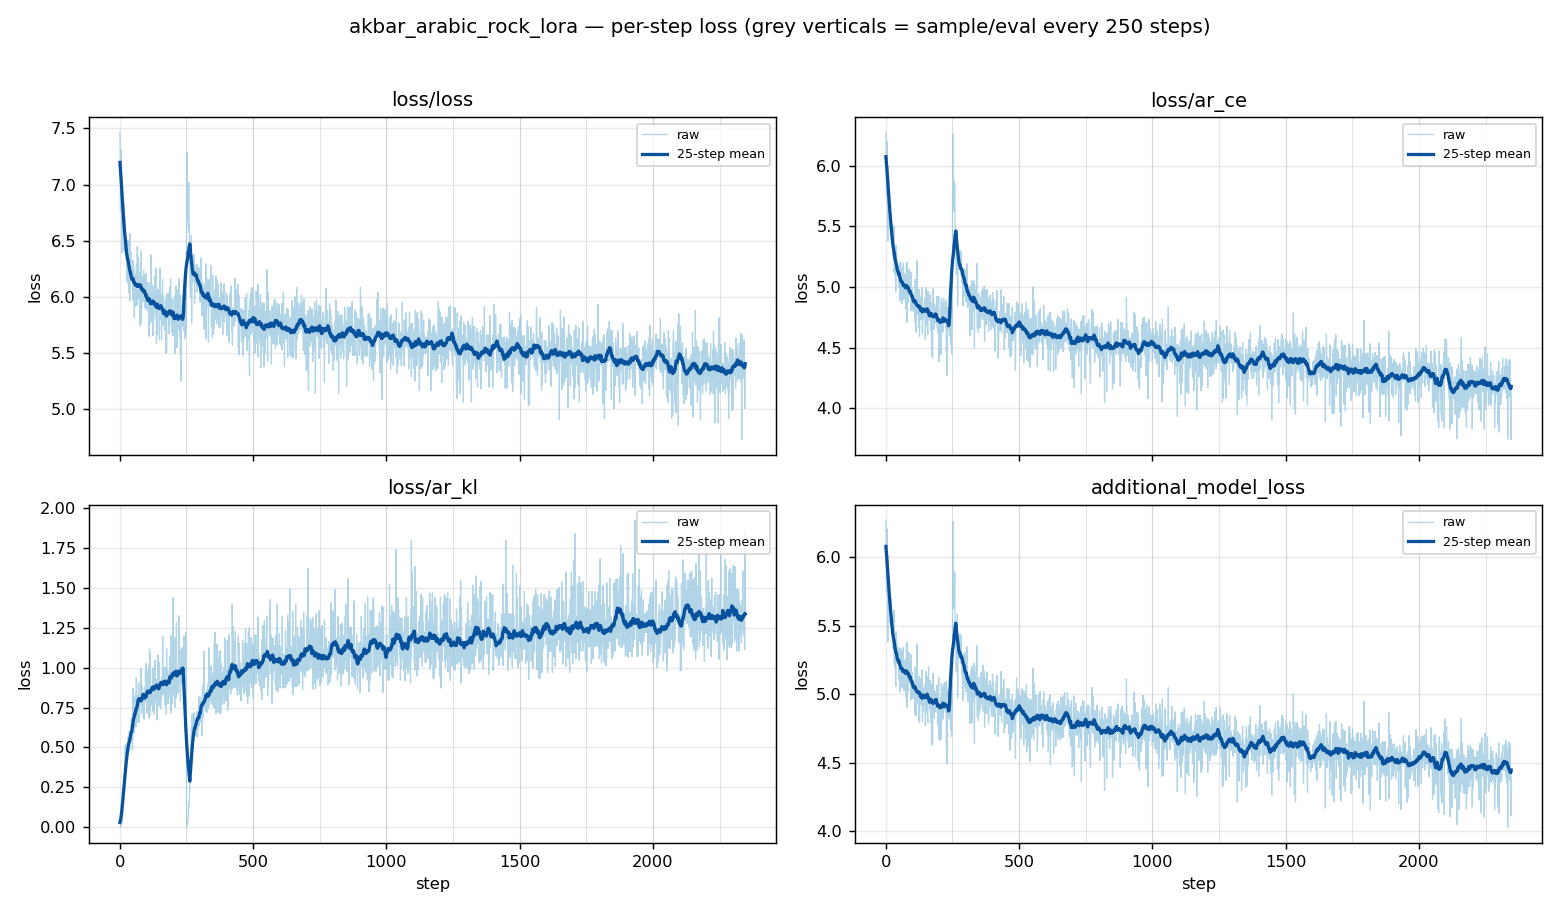
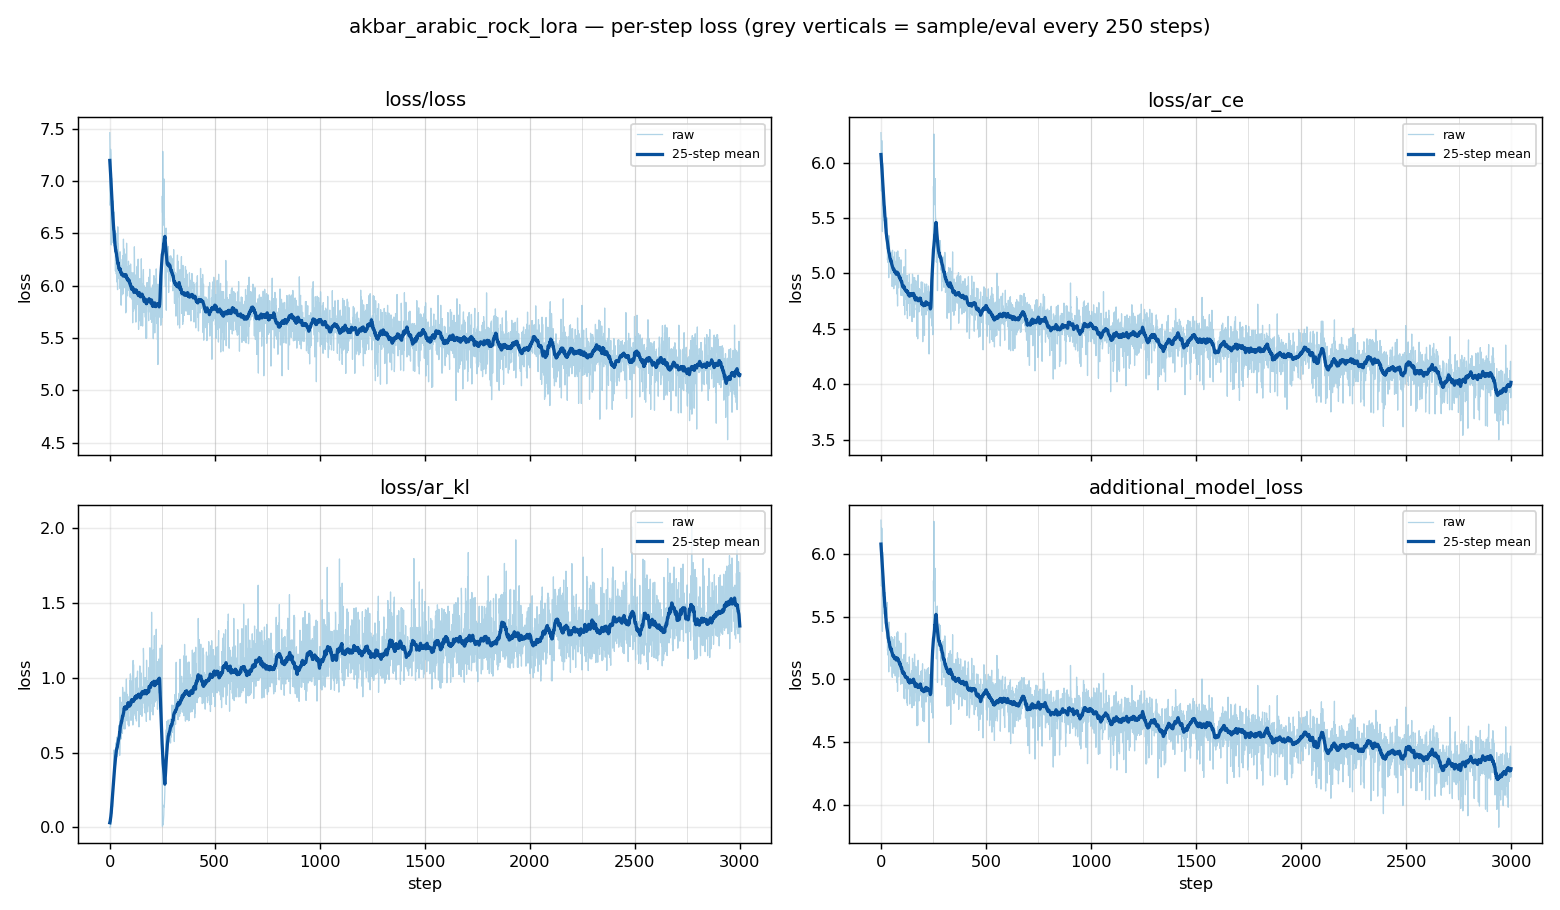
Run complete: A100 3000/3000 + final training analysis and progress

diff --git a/TRAINING_ANALYSIS/ANALYSIS.md b/TRAINING_ANALYSIS/ANALYSIS.md
@@ -1,7 +1,10 @@
 # Training analysis — `akbar_arabic_rock_lora`
 
-Snapshot taken **2026-09-19 14:09 UTC** (17:09 Bahrain) at **step ~2346 / 3000 (~78%)**.
-Charts are regenerated from the live `loss_log.db` and `gpu_usage.csv` with:
+**COMPLETE** — snapshot taken **2026-09-19 14:55 UTC** (17:55 Bahrain) at
+**step 3000 / 3000 (100%)**. The run finished cleanly (no traceback; final
+checkpoint + optimizer written; 52 samples generated).
+
+Charts are regenerated from the final `loss_log.db` and `gpu_usage.csv` with:
 
 ```bash
 python TRAINING_ANALYSIS/generate_plots.py
@@ -12,10 +15,10 @@ python TRAINING_ANALYSIS/generate_plots.py
 > the LoRA learned the maqam.
 
 > **Cross-VM note.** This run began on an L4 (steps 1–250, whole-song) and was
-> resumed on an A100-SXM4-80GB at step 250 (now to ~2346). The loss history is
-> continuous across the switch; the throughput/GPU panels are A100-only
-> (`gpu_usage.csv` started fresh on this VM). Steps 251–295 were re-processed on
-> the A100 after resume (they existed locally but never reached a saved
+> resumed on an A100-SXM4-80GB at step 250 and ran to completion. The loss history
+> is continuous across the switch; the throughput/GPU panels are A100-only
+> (`gpu_usage.csv` started fresh on the A100 VM). Steps 251–295 were re-processed
+> on the A100 after resume (they existed locally but never reached a saved
 > checkpoint on the L4).
 
 ## Run at a glance
@@ -26,13 +29,11 @@ python TRAINING_ANALYSIS/generate_plots.py
 | Model | YuE2 3B int8 `convrot8`, flowmatch, batch 1 |
 | Dataset | 267 clips, 267 captions, one combined LoRA across four maqams |
 | GPU | Colab **A100-SXM4-80GB** (steps 1–250 were L4 24 GB) |
-| Steps done | **~2346 / 3000 (78.2%)** |
-| Median step time | **3.10 s/step** on A100 (p10/p90 = 2.59 / 3.69), over 2079 steps; L4 was 13.4 s/step |
+| Steps done | **3000 / 3000 (100%)**, latest logged step 2999 |
+| Median step time | **3.10 s/step** on A100 (p10/p90 = 2.59 / 3.69, over 2730 steps); L4 was 13.4 s/step |
 | Sample tax | ~226 s (~3.8 min) per sample event, every 250 steps (L4 was ~388 s) |
-| Effective rate incl. samples | ~0.25 steps/s (~4.0 s/step amortised) |
-| ETA | **~45 min from snapshot → ~14:55 UTC / ~17:55 Bahrain** (incl. sample pauses at 2500/2750/3000) |
-| Checkpoints | `..._000000250` … `..._000002250.safetensors` (9) — all on disk **and in GCS** (every 250, keep 12) |
-| Samples | 40 mp3s (4 prompts at steps 0, 250, 500, 750, 1000, 1250, 1500, 1750, 2000, 2250) |
+| Checkpoints | `_000000250` … `_000002750` (11) **+ final `akbar_arabic_rock_lora.safetensors`** + `optimizer.pt` — on disk and in GCS |
+| Samples | **52 mp3s** (4 prompts at steps 0, 250, …, 3000) |
 
 ## Charts
 
@@ -70,73 +71,71 @@ python TRAINING_ANALYSIS/generate_plots.py
 | 2101–2200 | 5.369 | 4.198 | 1.325 | 4.463 |
 | 2201–2300 | 5.352 | 4.197 | 1.321 | 4.461 |
 | 2301–2400 | 5.388 | 4.200 | 1.333 | 4.466 |
+| 2401–2500 | 5.304 | 4.126 | 1.392 | 4.405 |
+| 2501–2600 | 5.291 | 4.130 | 1.359 | 4.402 |
+| 2601–2700 | 5.252 | 4.080 | 1.385 | 4.357 |
+| 2701–2800 | 5.206 | 4.036 | 1.422 | 4.320 |
+| 2801–2900 | 5.249 | 4.079 | 1.394 | 4.358 |
+| 2901–3000 | 5.167 | 3.976 | 1.480 | 4.272 |
 
 Confirmed metric keys: `additional_model_loss`, `learning_rate`, `loss/ar_ce`,
 `loss/ar_kl`, `loss/loss`. There is **no** `nar_flow` key (see `DECISIONS.md`).
 
-Headline first-50 vs last-50 (from `generate_plots.py`): `loss/loss` 6.49 → 5.39
-(**−1.11**), `loss/ar_ce` 5.45 → 4.20 (−1.25), `loss/ar_kl` 0.37 → 1.34 (+0.96),
-`additional_model_loss` 5.53 → 4.47 (−1.06).
+Headline first-50 vs last-50: `loss/loss` 6.49 → 5.17 (**−1.32**), `loss/ar_ce`
+5.45 → 3.97 (−1.49), `loss/ar_kl` 0.37 → 1.50 (+1.12),
+`additional_model_loss` 5.53 → 4.27 (−1.26). Minimum `loss/loss` 4.53 at step
+2941 (single-step noise).
 
 ## Observations
 
-1. **Healthy, monotone descent over the whole run.** `loss/loss` fell steeply
-   for the first ~100 steps, then declined slowly and steadily all the way to
-   ~5.39. Raw loss swings ~4.7–6.2 step-to-step, so only the smoothed line is
-   meaningful — normal at batch size 1.
+1. **Completed cleanly and monotonically.** `loss/loss` fell steeply for the
+   first ~100 steps, then declined slowly and steadily all the way to ~5.17.
+   Raw loss swings ~4.5–6.2 step-to-step; only the smoothed line is meaningful,
+   as expected at batch size 1.
 2. **`loss/ar_ce` is the whole story.** It dominates `loss/loss` and tracks it
-   almost one-to-one (5.23 → 4.20). This is the autoregressive cross-entropy —
-   the AR expert doing the composition/arrangement learning that
+   almost one-to-one (5.23 → 4.20 → 3.98 by the end). This is the autoregressive
+   cross-entropy — the AR expert doing the composition/arrangement learning that
    `train_window_frames: 0` was set to enable.
-3. **`loss/ar_kl` is no longer flat — it is creeping up again.** It rose to a
-   ~1.16–1.20 band by step ~900–1300, then resumed a slow climb: 1.28 by
-   1801–1900, 1.32 by 2101–2200, **1.33 by 2301–2400**. This is still a gentle
-   drift, not a spike or a divergence, but the earlier "plateau" reading no
-   longer holds. Treat a continued/accelerating rise as the early warning to
-   watch — it measures how far the adapted AR distribution has moved from the
-   base (weight 0.2).
-4. **Diminishing returns, very clearly.** Per-100-mean improvement of `loss/loss`
-   is now within noise of zero: 1301–1400 → 2301–2400 moved only 5.50 → 5.39,
-   with several flat/noisy windows (e.g. 2301–2400 ticks *up* slightly from
-   2201–2300). At constant LR 1e-4 on a small, repetitive dataset this is the
-   expected approach to a plateau. Loss is no longer the useful signal — sample
-   quality is.
+3. **`loss/ar_kl` never stopped rising.** It climbed from ~0, paused briefly near
+   1.2 around steps 900–1300, then resumed climbing and ended at **~1.48–1.50**.
+   The gradient moderated in places (e.g. 2501–2600 dipped to 1.359) but the
+   trend is upward and it is now the highest it has been. This measures how far
+   the adapted AR distribution has drifted from the base (weight 0.2); it is
+   still a bounded drift, not a blow-up, but it did **not** plateau as hoped. If
+   a future run continues past 3000 or repeats this one, this is the first metric
+   to watch.
+4. **Diminishing returns by the end.** From 2701–2800 (5.206) to 2901–3000
+   (5.167) the per-100 improvement was only ~0.04, and 2801–2900 ticked up
+   slightly. At constant LR 1e-4 on a small, repetitive dataset this is the
+   expected approach to a plateau; the remaining signal is in the samples.
 5. **The L4→A100 resume shows as a small, benign bump.** The 201–300 mean
    (6.072) sits above 101–200 (5.904) and 301–400 (5.953). This window straddles
-   the step-250 switch (L4 → A100, re-processing 250–295 after restore); the
-   decline resumes cleanly afterward. Not a real regression.
-6. **A100 throughput is excellent and now very well-measured.** Over 2079
-   post-resume steps (all clip lengths), **median 3.10 s/step**, p10/p90
-   2.59/3.69. That is **~4.3× the L4's 13.4 s/step** — above the 2–2.6× estimate
-   in `docs/GPU_L4_VS_A100.md`, which was derived from peak-spec ratios rather
-   than a measured A100 run. The earlier "does it hold on the longest clips?"
-   caution is resolved: it does.
-7. **The sample tax is real but smaller here.** Each sample event pauses training
-   ~226 s (~3.8 min) — about 42% of the L4's ~388 s. Over the 250-step interval
-   it adds ~0.9 s/step amortised, so the headline ETA is longer than the raw
-   3.1 s/step implies.
-8. **GPU is healthy with large headroom.** While training: ~100% util, ~15–16 GB
-   of 80 GB, ~334 W mean / ~424 W max against a 400 W cap, 45–67 °C. Memory was
-   never the constraint and there is now ~64 GB free — batch size is deliberately
-   left at 1 (`DECISIONS.md`: one variable at a time).
-9. **Everything is persisted.** Checkpoints 250–2250 are on disk and in GCS; the
-   metrics db, samples, and logs are mirrored on the ~15-min backup cadence.
+   the step-250 switch; the decline resumes cleanly afterward — not a regression.
+6. **A100 throughput, well-measured:** over 2730 post-resume steps (all clip
+   lengths), **median 3.10 s/step**, p10/p90 2.59/3.69 — **~4.3× the L4's
+   13.4 s/step**, above the 2–2.6× peak-spec estimate in
+   `docs/GPU_L4_VS_A100.md`.
+7. **Sample tax:** each sample event paused training ~226 s (~3.8 min), about 42%
+   of the L4's ~388 s; amortised ~0.9 s/step over each 250-step interval.
+8. **GPU healthy throughout:** ~100% util, ~15–16 GB of 80 GB, ~334 W mean /
+   ~424 W max against a 400 W cap, 45–67 °C. Memory was never the constraint;
+   batch was deliberately kept at 1 (one variable at a time).
+9. **Everything persisted:** 11 numbered checkpoints + the final save +
+   `optimizer.pt` + `loss_log.db` + 52 samples are mirrored to GCS.
 
-## Things to watch / decisions to make later
+## Next steps / things to judge
 
-- **Judge the samples, not the loss.** The 40 generated audios are the quality
-  signal; loss has plateaued. Use the step-0 samples as the base-model reference
-  and listen for whether arrangement-level coherence improves across
-  500 → 1250 → 2250 (the whole point of `train_window_frames: 0`).
-- **Overfitting.** With 267 highly similar captions and no validation split,
-  watch for samples that copy incidental artifacts of specific clips rather than
-  generalizing the shared style — the reason rank was kept at 32
-  (`DECISIONS.md`).
-- **`ar_kl`** — no longer plateaued; a continued climb past ~1.35 is the early
-  warning to correlate with sample quality.
-- **End of run.** At ~78% with loss flat, the step-2500/2750/3000 samples are the
-  main reason to let it finish; consider whether a later run should lower LR or
-  add a holdout rather than add steps at this LR.
-- The ETA assumes the current sustained rate; a Colab disconnect would invalidate
-  it, but auto-resume of this unchanged, approved run is permitted
-  (`AGENTS.md`/`DECISIONS.md`).
+- **Listen to the samples.** The 52 generated audios (4 prompts at each 250-step
+  mark, step 0 → 3000) are the only quality signal. Compare step 0 (base model)
+  against 1250/2500/3000 and listen specifically for arrangement-level coherence
+  — that is the point of `train_window_frames: 0`, and it is not something loss
+  can confirm.
+- **Pick the artifact.** The final `akbar_arabic_rock_lora.safetensors` and the
+  numbered checkpoints 2250/2500/2750 are all in GCS; if an earlier checkpoint
+  sounds better (possible if late steps overfit), it is available.
+- **Overfitting check.** With 267 highly similar captions and no validation
+  split, listen for samples copying incidental artifacts of specific clips
+  rather than generalizing the shared style (why rank stayed at 32).
+- **If a v2 is considered:** `ar_kl`'s unbroken rise suggests either fewer steps,
+  a lower LR, or a KL-weight/loss adjustment — but change one variable at a time
+  and keep the dataset/goal fixed (`DECISIONS.md`).

diff --git a/PROGRESS.md b/PROGRESS.md
@@ -45,3 +45,27 @@ Durable, cross-session milestone record: what has actually been run, what it pro
 - **Persisted + verified:** GCS `.../akbar_arabic_rock_lora/output/` holds `akbar_arabic_rock_lora_000000250.safetensors` + `optimizer.pt` + `loss_log.db` + `config.yaml` + `samples/` + `tensorboard/`; `.../agent_notes/current.md` is synced. GitHub clean. The L4 backup daemon and GPU logger are stopped.
 - **Resume on the A100 Colab (fresh session):** clone the repo → `bash bootstrap/setup.sh` (wait for all `[ok]`) → `gsutil -m rsync -r` the GCS `output/` into `/content/ai-toolkit/output/akbar_arabic_rock_lora` → start the two sidecars → launch the identical command (user types it). Full runbooks: `docs/START.md` + `docs/PAUSE_RESUME.md`; session-specific handoff in `agent_notes/current.md` (gitignored — pull from GCS if absent). The fresh VM re-caches latents (~12 min) on first launch.
 - Next: on A100, measure real s/step over the first ~20 steps, recompute the ETA, then run to 3000.
+
+## 2026-09-19 — A100 resume completed the whole-song run (3000/3000) ✅
+
+- Resumed on a Colab **A100-SXM4-80GB** from the step-250 checkpoint and ran to
+  **step 3000/3000**. Clean finish, no traceback; final checkpoint + optimizer
+  written, 52 samples generated. `run.py` exited, GPU freed.
+- **~4.3× faster than the L4:** A100 median **3.10 s/step** (p10/p90 2.59 / 3.69,
+  over 2730 steps) vs the L4's 13.4 s/step. Sample pauses ~226 s each (~42% of
+  the L4's ~388 s). This resolved the 2–2.6× estimate in
+  `docs/GPU_L4_VS_A100.md` (that estimate was peak-spec-derived, not measured).
+- **Final loss** (first-50 → last-50): `loss/loss` 6.49 → 5.17, `loss/ar_ce`
+  5.45 → 3.97, `additional_model_loss` 5.53 → 4.27. `loss/ar_kl` 0.37 → **1.50**
+  — it never plateaued and drifted upward to its highest value; flagged as the
+  metric to watch for any v2. Full write-up: `TRAINING_ANALYSIS/ANALYSIS.md`.
+- **Persisted + verified:** 11 numbered checkpoints (`_000000250` … `_000002750`)
+  **+ the final `akbar_arabic_rock_lora.safetensors`** + `optimizer.pt` +
+  `loss_log.db` + 52 samples, all on disk and in GCS. Docs committed/pushed:
+  `docs/LIVE_STATUS.md` (12:01 post-resume snapshot) and
+  `TRAINING_ANALYSIS/` (`0f205a1`, `00f4534`).
+- **Next:** evaluate the 52 samples by ear for arrangement-level coherence — the
+  whole point of `train_window_frames: 0`, and not something loss can confirm.
+  Pick the best artifact (final vs an earlier checkpoint if late steps overfit).
+  A v2, if any, should change one variable (steps / LR / `ar_kl_weight`) given
+  the unbroken `ar_kl` rise.
